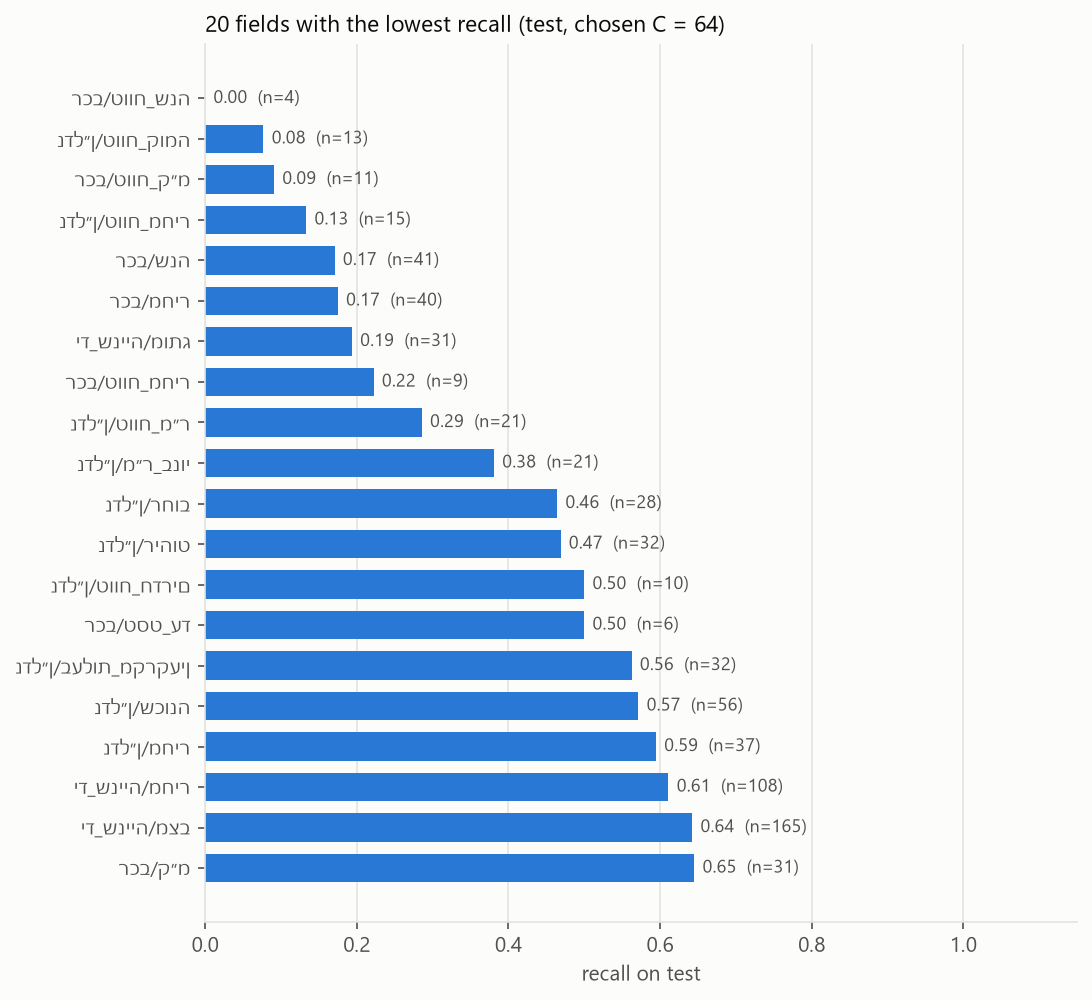
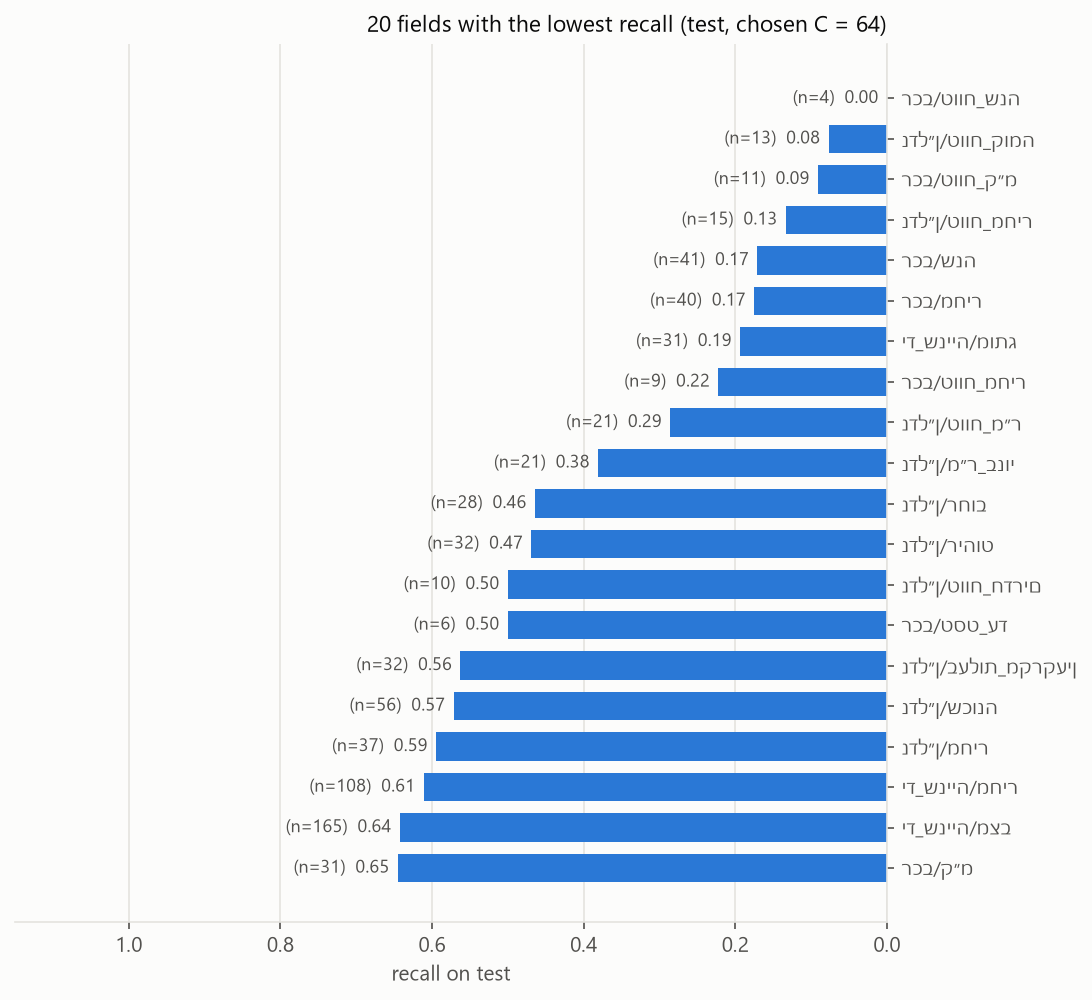
Render the field-recall chart right-to-left

diff --git a/training/experiment_1/plot_results.py b/training/experiment_1/plot_results.py
@@ -167,13 +167,17 @@ def plot_field_recall(k=20):
     y = np.arange(len(rows))
     ax.barh(y, [r["recall"] for r in rows], color=S1, height=0.7)
     ax.set_yticks(y, [heb(r["field"]) for r in rows], fontsize=9)
-    for i, r in enumerate(rows):
-        ax.annotate(f"{r['recall']:.2f}  (n={r['support']})", (r["recall"], i), xytext=(4, 0),
-                    textcoords="offset points", va="center", fontsize=8.5, color=INK_2)
-    ax.set_xlim(0, 1.15)
+    for i, r in enumerate(rows):  # value sits just past the bar's (left-hand) end
+        ax.annotate(f"(n={r['support']})  {r['recall']:.2f}", (r["recall"], i), xytext=(-4, 0),
+                    textcoords="offset points", va="center", ha="right", fontsize=8.5, color=INK_2)
+    # RTL layout: baseline and field names on the right, bars grow leftwards
+    ax.set_xlim(1.15, 0)
+    ax.yaxis.tick_right()
+    ax.spines["right"].set_visible(True)
+    ax.spines["left"].set_visible(False)
     ax.grid(axis="y", visible=False)
     ax.set_xlabel("recall on test")
-    ax.set_title(f"{k} fields with the lowest recall (test, chosen C = {CHOSEN_C})", loc="left")
+    ax.set_title(f"{k} fields with the lowest recall (test, chosen C = {CHOSEN_C})", loc="right")
     save(fig, "field_recall.png")
 
 
